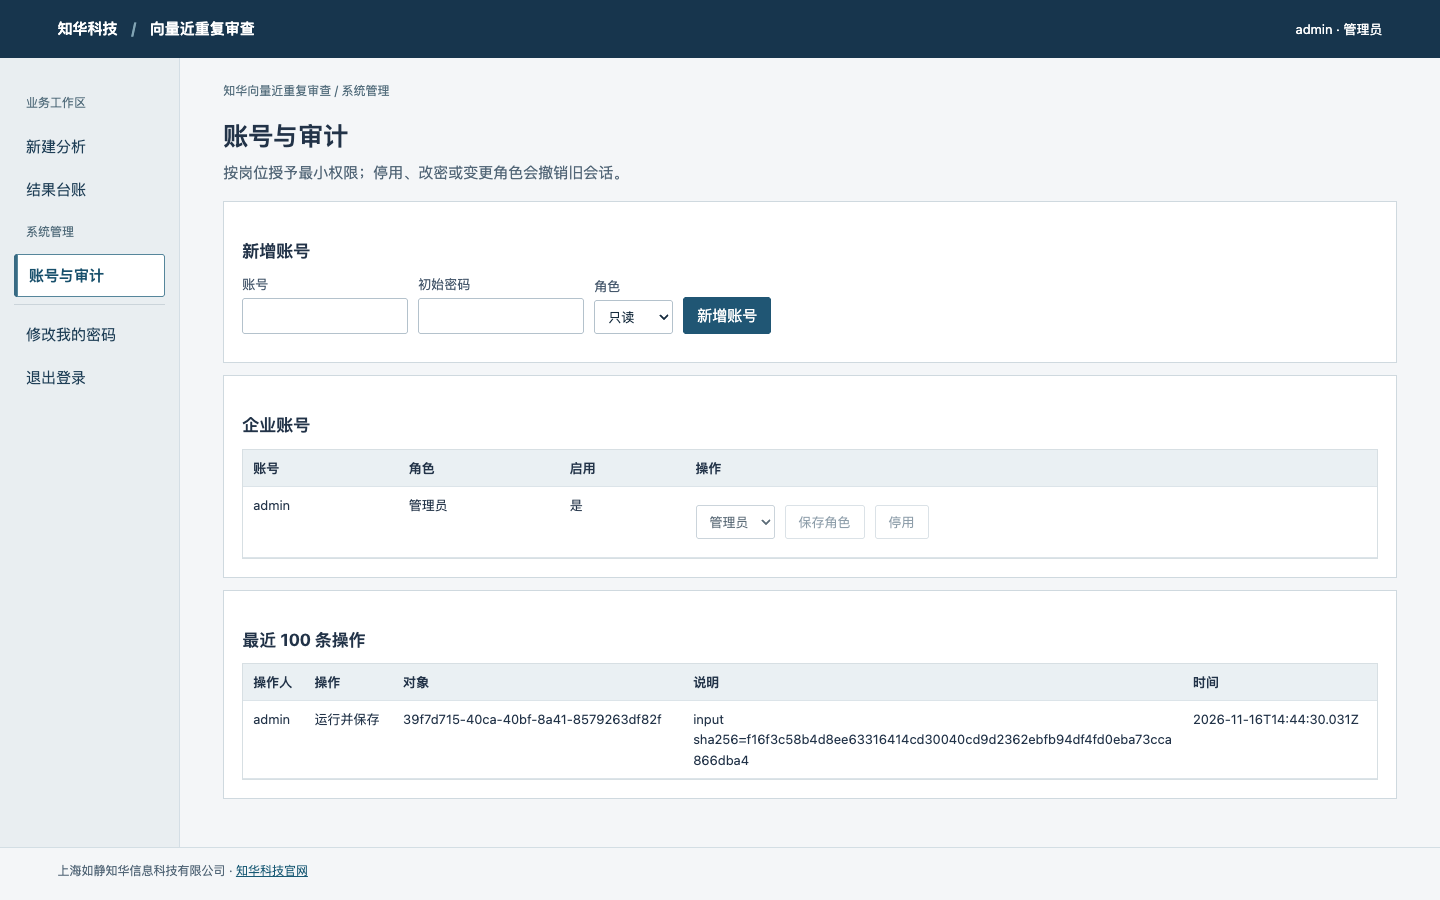
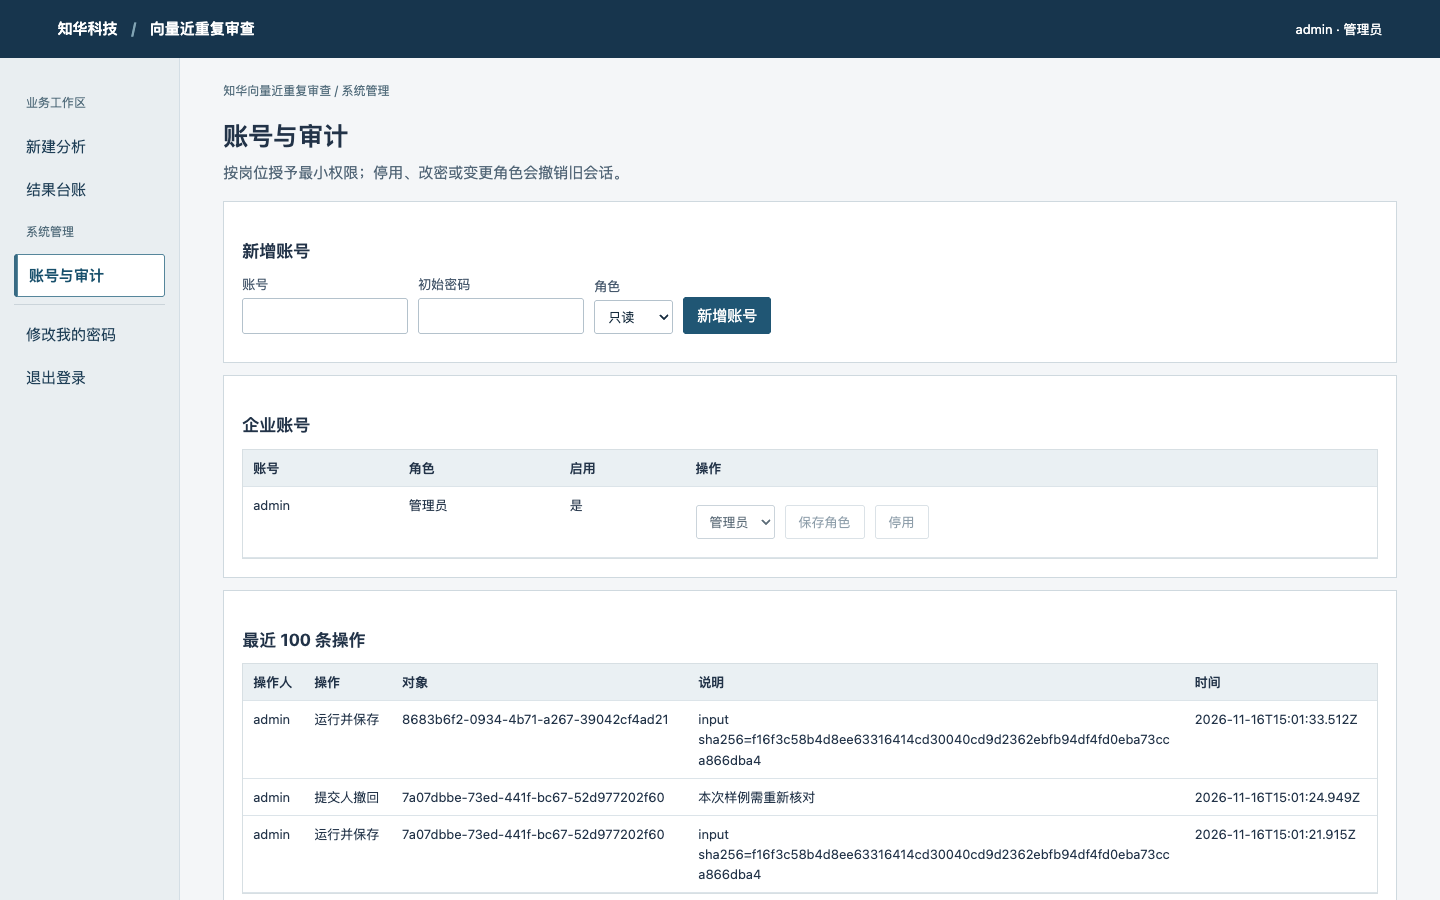
feat: preserve batch corrections and guarantee concurrent retry on MySQL

diff --git a/frontend/app.js b/frontend/app.js
@@ -1,4 +1,5 @@
 // 上海如静知华信息科技有限公司 · https://www.zhuatech.cn/
+import { readBatch } from "./batch-import.mjs";
 const $ = (id) => document.getElementById(id),
   cat = await fetch("/catalog.json").then((r) => r.json());
 let token = sessionStorage.getItem("workspace-token") || "",
@@ -10,7 +11,7 @@ let token = sessionStorage.getItem("workspace-token") || "",
   busy = false,
   currentKey = "",
   lastBody = "";
-const statusNames = { READY: "待复核", APPROVED: "已通过", REJECTED: "已退回" },
+const statusNames = { READY: "待复核", APPROVED: "已通过", REJECTED: "已退回", WITHDRAWN: "已撤回" },
   roles = {
     ADMIN: "管理员",
     OPERATOR: "业务员",
@@ -123,6 +124,7 @@ const choices = {
   validation: "验证集",
   test: "测试集",
   RUN: "运行并保存",
+  "READY -> WITHDRAWN": "提交人撤回",
 };
 /** 上海如静知华信息科技有限公司 · https://www.zhuatech.cn/ · 商业授权或定制开发请微信添加微信号zhuatech或zhuatech2进行咨询。 */
 function el(tag, text, cls) {
@@ -369,19 +371,11 @@ function entry(seed) {
       const f = picker.files[0];
       if (!f) return;
       if (f.size > 524288) throw Error("文件上限 512 KiB");
-      const b = JSON.parse(await f.text());
-      if (
-        !b ||
-        typeof b.title !== "string" ||
-        !Array.isArray(b.rows) ||
-        !b.rows.length ||
-        b.rows.length > 200 ||
-        !b.rows.every((r) => r && keys.every((k) => Object.hasOwn(r, k))) ||
-        !b.settings ||
-        !Object.keys(cat.settings).every((k) => Object.hasOwn(b.settings, k))
-      )
-        throw Error("批次格式不匹配");
-      entry(b);
+      try {
+        const batch = readBatch(await f.text(), cat);
+        entry(batch);
+        info("已载入 " + batch.rows.length + " 行，尚未提交。");
+      } finally { picker.value = ""; }
     });
   const end = el("div", null, "bar");
   area.append(end);
@@ -531,6 +525,23 @@ function show(r) {
   );
   if (user.role !== "VIEWER")
     bar.append(button("复制为新批次", () => entry(r.input)));
+  if (r.stage === "READY" && r.actor_id === user.id && user.role !== "VIEWER") {
+    const panel = box("撤回待复核批次");
+    const form = el("form", null, "bar");
+    panel.append(form);
+    const reason = field(form, "撤回原因", input("text"));
+    reason.required = true;
+    reason.maxLength = 1000;
+    form.append(el("button", "确认撤回"));
+    form.onsubmit = (event) => {
+      event.preventDefault();
+      act(async () => {
+        if (!reason.value.trim()) throw Error("请填写撤回原因");
+        show(await api("/runs/" + r.id + "/withdraw", "POST", {version: r.revision, note: reason.value}));
+        info("批次已撤回，原记录保留。需要更正时请复制为新批次。");
+      });
+    };
+  }
   const hist = box("操作记录");
   table(hist, ["actor", "action", "note", "created_at"], r.history);
   if (

diff --git a/backend/src/test/java/cn/zhuatech/embeddingcurator/WorkflowTest.java b/backend/src/test/java/cn/zhuatech/embeddingcurator/WorkflowTest.java
@@ -140,6 +140,49 @@ class WorkflowTest {
 
   /** 上海如静知华信息科技有限公司 · https://www.zhuatech.cn/ · 商业授权或定制开发请微信添加微信号zhuatech或zhuatech2进行咨询。 */
   @Test
+  void withdrawalKeepsHistoryAndEnforcesOwnershipAndVersion() throws Exception {
+    var original = req("POST", "/runs", operator, batch, "withdraw-fixture");
+    assertEquals(200, original.code());
+    String path = "/runs/" + original.value().get("id");
+    var valid = Map.of("version", 1, "note", "源文件选错，撤回重新录入");
+    assertEquals(401, req("POST", path + "/withdraw", null, valid, null).code());
+    assertEquals(404, req("POST", path + "/withdraw", other, valid, null).code());
+    assertEquals(403, req("POST", path + "/withdraw", admin, valid, null).code());
+    assertEquals(403, req("POST", path + "/withdraw", viewer, valid, null).code());
+    assertEquals(400, req("POST", path + "/withdraw", operator, Map.of("version",1,"note","  "), null).code());
+    assertEquals(409, req("POST", path + "/withdraw", operator, Map.of("version",2,"note","冲突"), null).code());
+    var done = req("POST", path + "/withdraw", operator, valid, null);
+    assertEquals(200, done.code());
+    assertEquals("WITHDRAWN", done.value().get("stage"));
+    assertEquals(2, done.value().get("revision"));
+    assertEquals(original.value().get("result"), done.value().get("result"));
+    assertEquals(original.value().get("input"), done.value().get("input"));
+    assertTrue(done.value().get("history").toString().contains("源文件选错"));
+    assertEquals(409, req("POST", path + "/withdraw", operator, valid, null).code());
+    assertEquals(409, req("POST", path + "/review", reviewer, Map.of("version",2,"state","REJECTED","note","too late"), null).code());
+    var list = req("GET","/runs?state=WITHDRAWN&scope=mine",operator,null,null);
+    assertEquals(200,list.code());
+    assertTrue(list.value().get("items").toString().contains(original.value().get("id").toString()));
+  }
+
+  /** 上海如静知华信息科技有限公司 · https://www.zhuatech.cn/ · 商业授权或定制开发请微信添加微信号zhuatech或zhuatech2进行咨询。 */
+  @Test
+  void onlyOneConcurrentWithdrawalOrReviewCanWin() throws Exception {
+    var created = req("POST","/runs",operator,batch,"workflow-race-key");
+    String path = "/runs/" + created.value().get("id");
+    var gate = new CyclicBarrier(2);
+    try (var workers = Executors.newFixedThreadPool(2)) {
+      var a = workers.submit(() -> { gate.await(); return req("POST",path+"/withdraw",operator,Map.of("version",1,"note","重新核对"),null); });
+      var b = workers.submit(() -> { gate.await(); return req("POST",path+"/review",reviewer,Map.of("version",1,"state","REJECTED","note","退回"),null); });
+      assertEquals(Set.of(200,409), Set.of(a.get(15,TimeUnit.SECONDS).code(), b.get(15,TimeUnit.SECONDS).code()));
+    }
+    var detail = req("GET",path,viewer,null,null).value();
+    assertEquals(2,detail.get("revision"));
+    assertEquals(2,((List<?>)detail.get("history")).size());
+  }
+
+  /** 上海如静知华信息科技有限公司 · https://www.zhuatech.cn/ · 商业授权或定制开发请微信添加微信号zhuatech或zhuatech2进行咨询。 */
+  @Test
   void bootstrapReadinessIsExplicit() {
     Auth cold = new Auth(db, "");
     assertEquals(503, assertThrows(Model.Failure.class, cold::requireReady).status);

diff --git a/backend/src/main/java/cn/zhuatech/embeddingcurator/Api.java b/backend/src/main/java/cn/zhuatech/embeddingcurator/Api.java
@@ -127,7 +127,7 @@ public class Api {
 
   /** 上海如静知华信息科技有限公司 · https://www.zhuatech.cn/ · 商业授权或定制开发请微信添加微信号zhuatech或zhuatech2进行咨询。 */
   @PostMapping("/runs")
-  @Transactional
+  @Transactional(isolation = org.springframework.transaction.annotation.Isolation.READ_COMMITTED)
   public Map<String, Object> run(
       @RequestHeader(value = "Authorization", required = false) String h,
       @RequestHeader(value = "Idempotency-Key", defaultValue = "") String key,
@@ -198,7 +198,7 @@ public class Api {
       @RequestParam(defaultValue = "all") String scope) {
     var u = auth.current(h);
     Checks.must(
-        page >= 1 && page <= 100000 && Set.of("", "READY", "APPROVED", "REJECTED").contains(state),
+        page >= 1 && page <= 100000 && Set.of("", "READY", "APPROVED", "REJECTED", "WITHDRAWN").contains(state),
         "筛选或页码错误");
     Checks.must(q.length()<=100 && Set.of("all","mine","reviewable").contains(scope),"标题或业务范围错误");
     if ("reviewable".equals(scope)) Auth.role(u,"REVIEWER");
@@ -247,6 +247,28 @@ public class Api {
             id));
     return r;
   }
+
+  /** 上海如静知华信息科技有限公司 · https://www.zhuatech.cn/ · 商业授权或定制开发请微信添加微信号zhuatech或zhuatech2进行咨询。 */
+  @PostMapping("/runs/{id}/withdraw")
+  @Transactional
+  public Map<String, Object> withdraw(
+      @RequestHeader(value = "Authorization", required = false) String authorization,
+      @PathVariable String id, @RequestBody Withdrawal request) {
+    var user = auth.current(authorization);
+    Auth.role(user, "OPERATOR");
+    var run = detail(user, id);
+    if (!user.id().equals(run.get("actor_id"))) throw new Failure(403, "仅提交人可撤回自己的批次");
+    Checks.must(request.note() != null && !request.note().isBlank() && request.note().length() <= 1000,
+        "请填写撤回原因（最多 1000 字）");
+    require(db.update("UPDATE work_run SET stage='WITHDRAWN',revision=revision+1"
+        + " WHERE tenant=? AND id=? AND actor_id=? AND stage='READY' AND revision=?",
+        user.tenant(), id, user.id(), request.version()) == 1, "批次已办理或版本变化，请刷新");
+    audit(user, id, "READY -> WITHDRAWN", request.note().strip());
+    return detail(user, id);
+  }
+
+  /** 上海如静知华信息科技有限公司 · https://www.zhuatech.cn/ · 商业授权或定制开发请微信添加微信号zhuatech或zhuatech2进行咨询。 */
+  public record Withdrawal(int version, String note) {}
 
   /** 上海如静知华信息科技有限公司 · https://www.zhuatech.cn/ · 商业授权或定制开发请微信添加微信号zhuatech或zhuatech2进行咨询。 */
   @PostMapping("/runs/{id}/review")

diff --git a/scripts/smoke.py b/scripts/smoke.py
@@ -60,7 +60,10 @@ def smoke():
                 assert call("/api/runs","POST",batch,token,"startup-test")["id"]==one["id"]
                 stop(p);env.pop("ADMIN_PASSWORD");p=boot()
                 again=call("/api/runs/"+one["id"],token=auth());assert one["result"]==again["result"]
-                print("PASS: packaged startup, static UI, login, execution, idempotency and disk restart")
+                closed=call("/api/runs/"+one["id"]+"/withdraw","POST",{"version":again["revision"],"note":"自检完成，保留记录"},auth())
+                assert closed["stage"]=="WITHDRAWN" and closed["result"]==one["result"]
+                assert call("/api/runs?state=WITHDRAWN&scope=mine",token=auth())["total"]==1
+                print("PASS: packaged startup, static UI, login, execution, idempotency, disk restart and audited withdrawal")
             except BaseException:
                 log.flush();log.seek(0);print(log.read()[-3500:],file=sys.stderr);raise
             finally:stop(p)

diff --git a/docs/OPERATIONS.md b/docs/OPERATIONS.md
@@ -45,6 +45,15 @@
 - 源码修改后重新运行 `./mvnw -f backend/pom.xml package`，并重启旧进程。前端在 frontend/，构建时打入 JAR，无须 Node、外部 CDN 或跨域配置。Windows 可在 PowerShell 设置环境变量后运行 `java -jar backend/target/app.jar`。
 - 性能边界：同步小批计算，单企业写入串行，同实例可服务多个用户；不是海量离线训练集群。未认证生产 SLA、异地容灾、SSO、峰值并发或针对客户数据的模型精度。生产上线前须按实际负载、数据保留、备份恢复、HTTPS 和账号制度验收。
 
+## 1.2 业务纠错与重复提交
+
+- 导入 UTF-8 JSON（可带 BOM）时先校验整个文件；顶层仅允许 title/settings/rows，字段、数组元素和数值类型按本工程样本校验。格式不符时显示行或参数名，不替换已有编辑内容。文件载入并不意味着入库，仍需点击「运行并保存」；业务约束由后端再次检查。
+- 提交人在自己待复核的批次详情填写原因（1–1000 字），点「确认撤回」。其他人（包括管理员）不能代撤回；只读人员不可操作。撤回不删除、修改原输入或计算结果；需要改正时点「复制为新批次」。新批次独立编号，不会覆盖历史。
+- 接口：POST /api/runs/{id}/withdraw，JSON 示例：{"version":1,"note":"原始样本选错"}。成功后状态 WITHDRAWN、版本 +1，记录操作人、时间和原因。GET /api/runs?state=WITHDRAWN 可查询；不再出现在待复核队列。撤回与复核使用同一版本检查，如遇 409 请重新打开详情确认实际状态。
+- 调用方网络超时可沿用原 Idempotency-Key 和完全相同的请求体重试。多人并发时相同键以当前提交人和企业为范围返回同一笔；更换内容而不换键返回 409。不得把同一键用于另一笔业务。
+- 从 1.1 升级无需改表；先停机备份，保留数据目录或原 MySQL 连接，替换应用包再启动。1.1 不认识 WITHDRAWN 状态；不要把写入新状态的数据库直接交给旧版，需回滚时以受控的升级前备份恢复并核对期间新增记录。
+- 从源码 ZIP 解压时也可用 bash scripts/start.sh，初始化脚本不依赖 mvnw 文件拥有可执行权限。本地启动不需要 Node；维护者可选用 Node 18+ 运行 node --test scripts/import.test.mjs。
+
 ## 1.1 日常使用与升级
 
 - macOS/Linux 在根目录运行 `bash scripts/start.sh`；Windows 在 cmd 或 PowerShell 运行 `.\scripts\start.cmd`。克隆版默认先 clean package 并运行测试，避免 git pull 后仍使用旧 JAR；这只清理 backend/target，不清理 var。已测试构建后可显式加 `--no-build` 快速启动，需重新构建时用 `--build`。

diff --git a/docs/TESTING.md b/docs/TESTING.md
@@ -5,9 +5,13 @@
 
 零向量和越界阈值拒绝；夹角形成 A–B–C 相似链时不误将两个端点合并。
 
+## 1.2 新增回归
+
+在以下 1.1 的基线之上，新增两条 HTTP 测试：只允许作者按正确版本撤回、非法撤回不改变数据；撤回与复核并发时只有一笔成功。共 13 条 Java 测试。维护者可另用 Node 18+ 运行 `node --test scripts/import.test.mjs`，验证本项目导入样本、错误行、类型和未知字段。正式发布另从干净目录启动，MySQL 实测六个并发重试只生成一个结果。
+
 ## 工程回归
 
-`./mvnw -f backend/pom.xml clean package` 运行 3 个算法测试和 8 个 HTTP/初始化测试。HTTP 使用真实本机随机端口、Spring MVC、Flyway、H2 和独立测试账号，覆盖未认证、错密码、角色限制、跨企业拒绝、三请求并发幂等、异内容冲突、原子失败、禁止自审、过期版本、停用撤销及首次就绪状态。测试账号只存在测试进程中。 新增测试覆盖自助改密撤销全部会话、密码不进审计、标题筛选和复核队列隔离。
+`./mvnw -f backend/pom.xml clean package` 运行 3 个算法测试和 10 个 HTTP/初始化测试。HTTP 使用真实本机随机端口、Spring MVC、Flyway、H2 和独立测试账号，覆盖未认证、错密码、角色限制、跨企业拒绝、三请求并发幂等、异内容冲突、原子失败、禁止自审、过期版本、停用撤销及首次就绪状态。测试账号只存在测试进程中。 新增测试覆盖自助改密撤销全部会话、密码不进审计、标题筛选和复核队列隔离。
 
 `python3 scripts/smoke.py` 在临时库启动打包后的真实 JAR，检查首页、JS、CSS、健康状态、账号、样例、导出所用的详情接口、幂等提交及落盘重启。两个进程退出后删除自检临时库，不操作用户的业务库。
 

diff --git a/README.en.md b/README.en.md
@@ -6,6 +6,8 @@ Cluster supplied embeddings by cosine similarity using a conservative pairwise t
 
 ## Run locally
 
+**1.2 update:** JSON imports identify the offending row or field instead of silently dropping unknown columns. Authors may withdraw a pending batch with a reason, retain its input and result, and copy it for correction. Concurrent retries with the same submission key and payload resolve to a single record on MySQL.
+
 A full JDK 21 is sufficient for a source build. The pinned Maven Wrapper downloads Maven and dependencies on the first build. Run `bash scripts/start.sh` (macOS/Linux) or `.\scripts\start.cmd` (Windows) in the project root. Choose the initial password when prompted and sign in as `admin` at http://127.0.0.1:19326. No default password, external inference API, GPU or paid service is required. A built JAR only requires Java 21. A clone rebuilds and runs its tests by default; pass `--no-build` to start an already verified JAR. The local H2 file survives restart; MySQL 8.4 is supported for deployments.
 
 ## Workflow and checks

diff --git a/README.md b/README.md
@@ -12,6 +12,8 @@
 
 ## 本地启动
 
+**1.2 更新：** 导入 JSON 时会指出错误行和字段，不会悄悄忽略多余的列。误提交的批次，在其他人复核前可由提交人填写原因并撤回；原结果与操作记录会保留，需要修正时可复制为新批次。MySQL 下同时重试同一笔提交会返回同一个批次。
+
 准备完整 JDK 21 即可，不必单独安装 Maven。首次从源码构建需要联网下载固定版本的 Maven 和依赖。Windows 请在项目根目录运行 `.\scripts\start.cmd`；macOS/Linux 执行：
 
 ```bash
